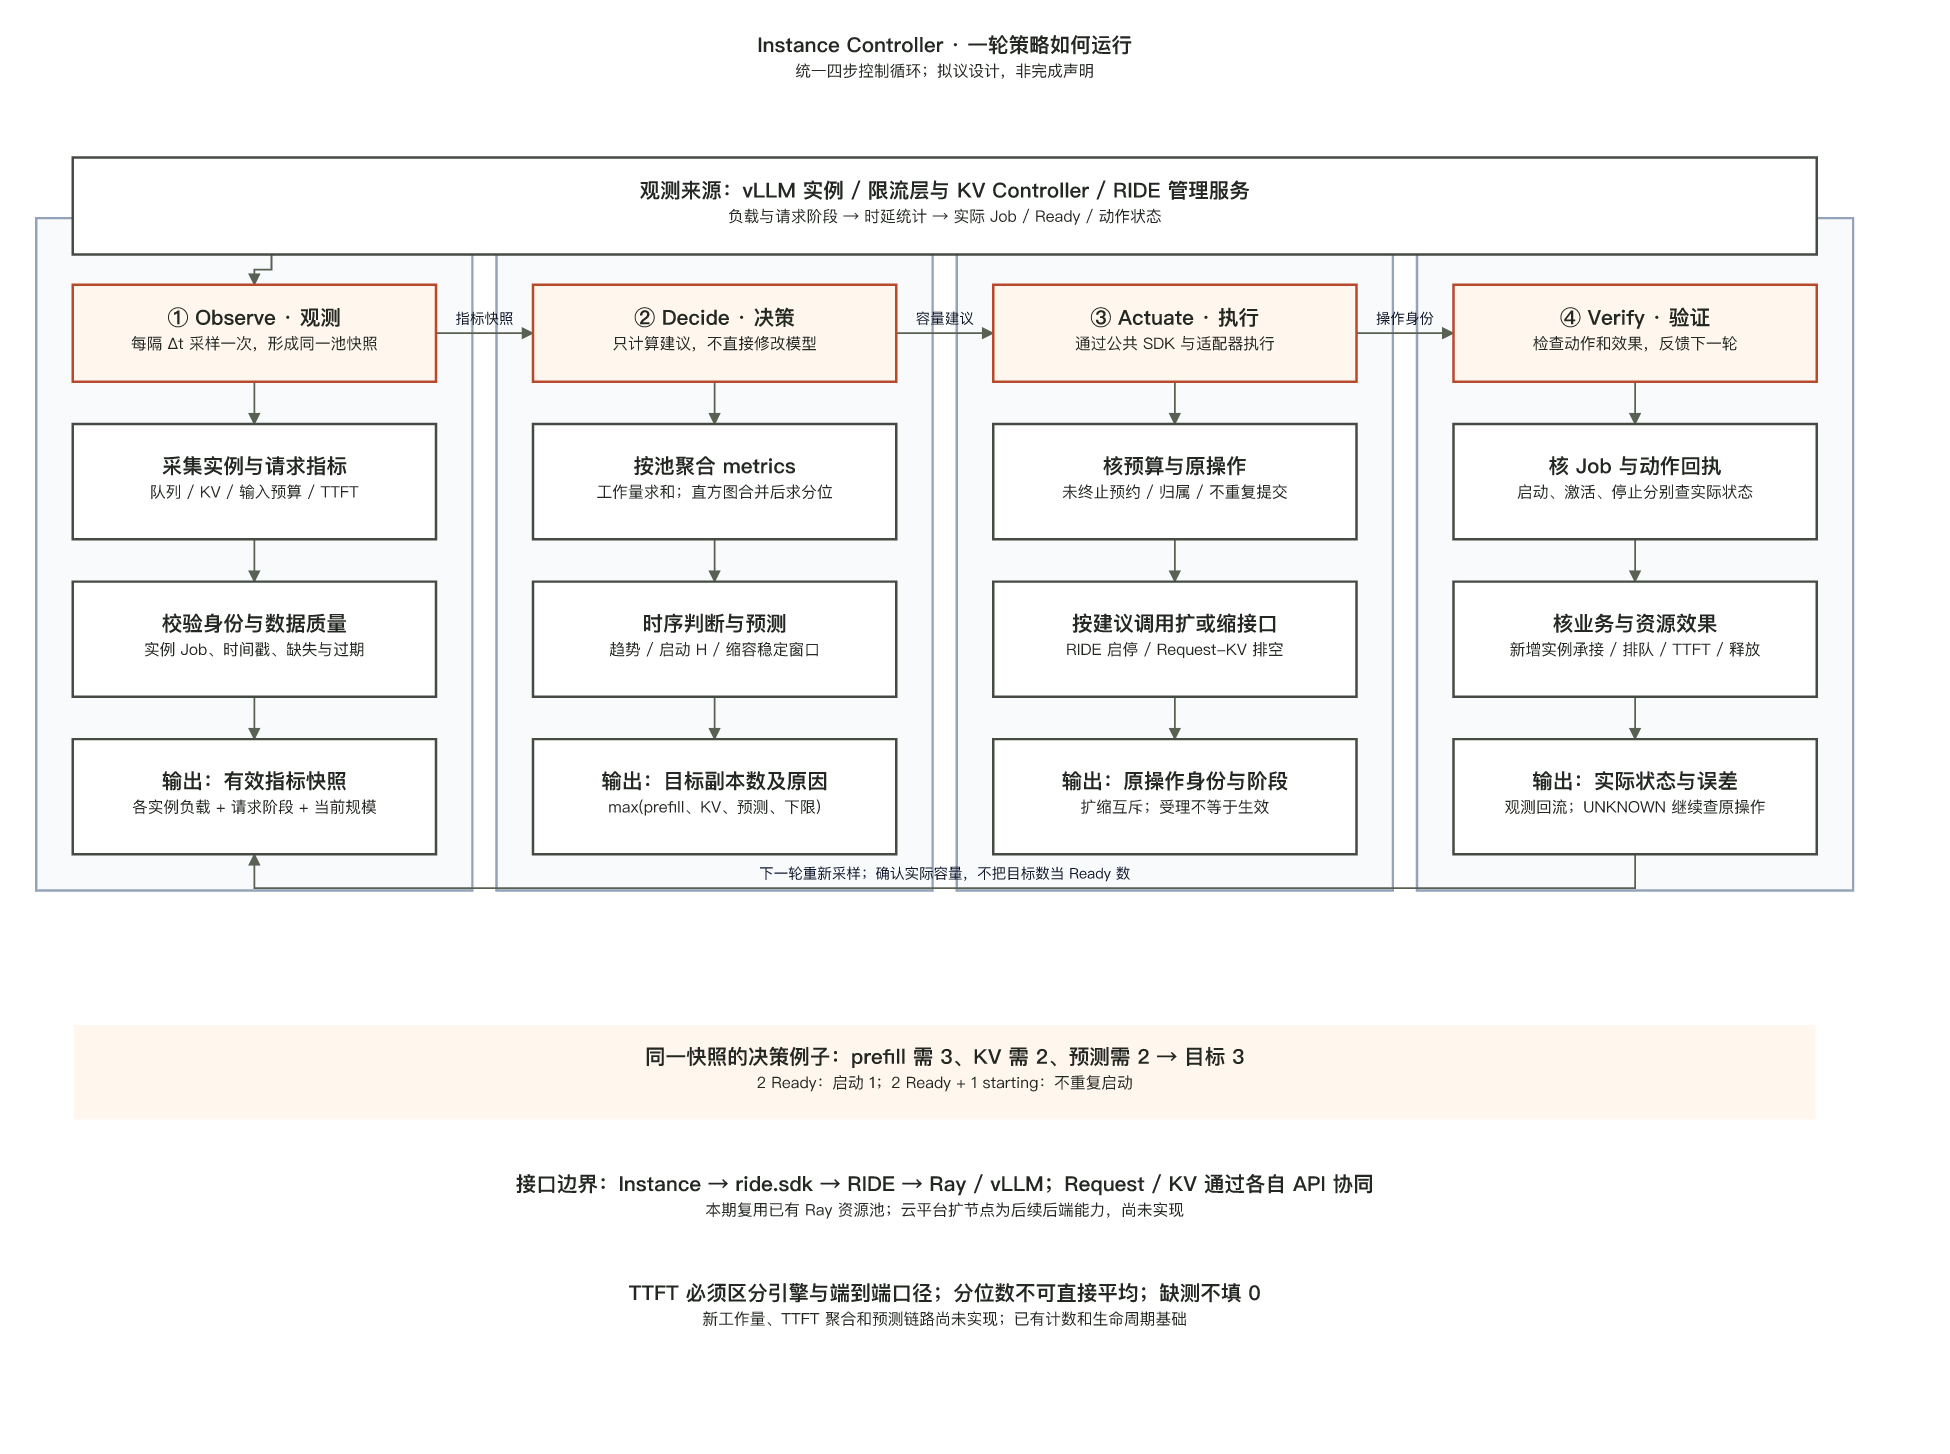
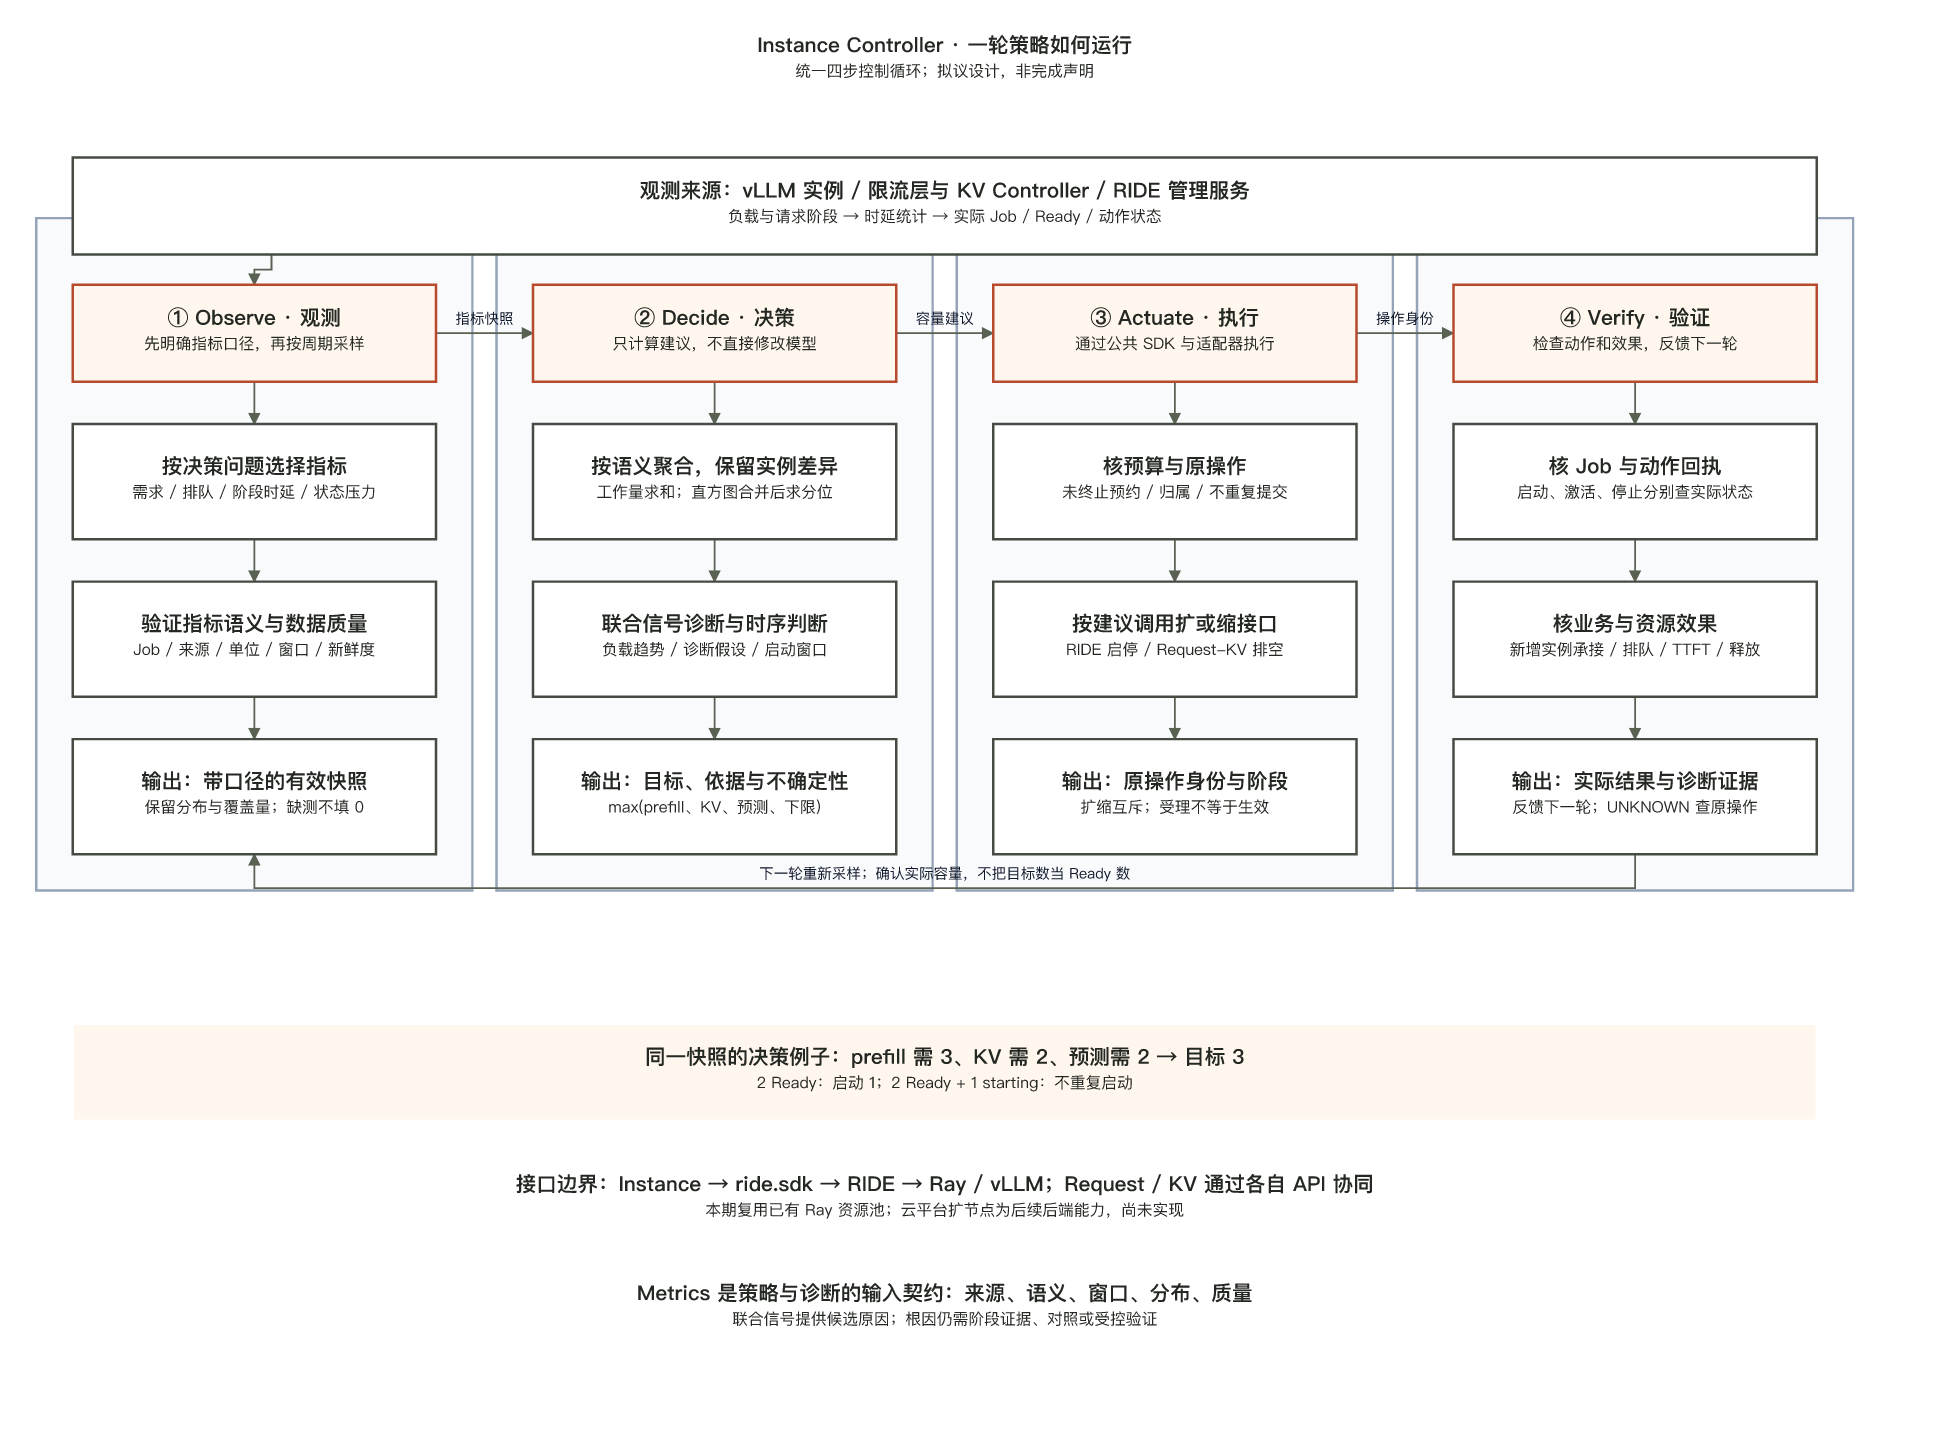
docs: make metrics contracts and evidence-based diagnosis central to autoscaling

diff --git a/docs/rfcs/0001-instance-autoscaling.md b/docs/rfcs/0001-instance-autoscaling.md
@@ -13,6 +13,8 @@
 
 ## 1. 摘要
 
+指标是策略输入的契约：先明确决策和诊断问题，再确定观测来源、语义、时间窗口与聚合规则；指标不可信时不产生其无法支持的动作或结论。
+
 实例扩缩由两层组成：公共实例控制循环负责身份、能力与观测校验、预算、安全启停、排空和恢复；可替换场景策略负责目标、所需观测和容量建议。普通在线推理、同步RL rollout、异步RL rollout及离线批处理具有不同目标，不能统一用请求时延或token吞吐验收。
 
 本RFC规定公共策略契约，并把带工作量反馈和可关闭启动前瞻的在线推理策略作为首个实现。RIDE继续托管独立Controller及管理准确模型Job，Ray执行；场景适配器提供公开观测和约束，策略不直接操作模型或平台。本期不实施RL训练/rollout策略，RL接口和目标仅为后续设计，不代表已有支持。
@@ -81,6 +83,19 @@
 | [Llumnix，OSDI24](https://www.usenix.org/conference/osdi24/presentation/sun-biao) | 状态影响重配置的动机及后续强相关基线 | 本RFC不实现其请求/状态迁移，不能声称已拥有迁移能力 |
 
 llm-d来源固定为343d9be9813020f43aeb5a5b97cb459102bb5893，[许可证为Apache-2.0](https://github.com/llm-d/llm-d/blob/343d9be9813020f43aeb5a5b97cb459102bb5893/LICENSE)。实现时记录实际引用文件SHA、保留归属并列适配差异。其他论文固定所引版本，Dynamo源码身份实施前核定；不复制上游硬件容量常数。统一接口或组合已有机制本身不构成研究新颖性。
+
+### 4.1 Metrics与诊断：已有工作具体教给我们什么
+
+核查日期2026-11-06；以下是源码所属项目/维护者的文档依据，不是本项目已经移植、运行或验证的声明。Dynamo引用固定v1.6.1文档；llm-d保持上表commit。vLLM latest与社区文档是当天阅读版本，落代码前还须固定来源commit、许可证及本机实际版本。
+
+| 已有工作与直接来源 | 学习并纳入本设计的内容 | 适配与证据边界 |
+|---|---|---|
+| [vLLM Production Metrics](https://docs.vllm.ai/en/latest/usage/metrics/) | 复用`/metrics`及队列、阶段时延、KV、抢占和token指标语义；优先沿用原生采集 | 最新文档不是当前Ascend镜像的能力清单。先核HELP/TYPE、源码和实样，字段缺失不改名伪装等价 |
+| [llm-d token-aware autoscaling](https://github.com/llm-d/llm-d/blob/343d9be9813020f43aeb5a5b97cb459102bb5893/guides/workload-autoscaling/keda-epp-token-aware/README.md) | 学习按阶段选择信号：prefill工作量经本机标定换算成时间，KV单独表达状态容量；第7.2节已有对应适配 | 上游强调uncached token；本期完整输入预算是代理，必须披露偏差。该路径为Experimental，不搬上游容量常数 |
+| [Dynamo Planner v1.6.1 Design](https://docs.nvidia.com/dynamo/v1.6.1/knowledge-base/modular-components/planner/planner-design) | 学习流量/引擎观测到预测、容量建议、约束与执行的分离；使用不同时间尺度处理持续需求与即时压力 | 其FPM/性能模型及GPU链路未在本项目Ascend验证，不因借鉴结构就宣称同等SLA预测能力 |
+| [vLLM Doctor TTFT规则](https://docs.vllm.doctor/rules/ttft-bottleneck/)、[维护者仓库](https://github.com/vllm-doctor/vllm-doctor) | 学习联合TTFT、TPOT与队列提供证据、可能瓶颈和后续检查，作为第6.5节诊断表的参考 | 独立社区项目，非vLLM官方；当前核的是公开文档，未验收代码。其confidence是规则匹配等级，不是已校准因果概率；不照搬默认阈值，不自动改变业务配置 |
+
+先复用指标与规则思想，保持采集后端可替换：现有exporter/Prometheus及Controller API经观测适配器进入同一指标契约；不为此先造新监控平台。指标契约复用各策略已有schema/能力声明，具体容量控制律仍在独立Instance Controller内。研究差异必须由后续结果说明，不能把“接入Prometheus”或组合这些已有思路称为新贡献。
 
 ## 5. 所选设计与不变式
 
@@ -187,6 +202,52 @@ TTFT在这里有两种作用：用于标定/核验时延目标，以及验证新
 这三项是对同一个实例池的不同容量建议，取最大值而不是相加，避免把重叠需求重复计算。它们也不是完整排队论模型：共置prefill/decode相互干扰，KV分布和绑定会限制扩容效果。第一版限定在经标定的prefill压力主导区间，decode压力与状态偏斜作为保护/边界；超出区间时不宣称SLO保证。
 
 在线观测如何计数、如何区分有效首token、缺测如何处理，见附录A。场景策略只读取适配器给出的公开观测并返回建议，不直接调用模型或平台。RL将使用不同的观测和目标，不能套用本节在线公式来证明训练收益。
+
+### 6.5 Metrics是决策与诊断的输入契约
+
+**先定义要作出的决策和要区分的原因，再选择指标；先验证指标语义，再允许策略使用。** 一个TTFT曲线只能说明症状，不能单独确定应扩容、调整请求放行、处理状态压力还是排查故障。策略必须能追溯到实际观测及其适用范围，诊断则明确区分事实、候选解释和缺失证据。
+
+#### 最小指标集：从需求、排队、执行和结果形成证据链
+
+| 要回答的问题 | 指标及来源 | 聚合/关联与使用方式 |
+|---|---|---|
+| 进入系统的工作量是多少？ | 限流层已接收输入token累计量、counter epoch、首token前预算B；请求输入/输出长度分布 | 到达量由接收端计数导出速率，不能用饱和后的完成吞吐代替需求；预算用于第7.2节 |
+| 工作等在哪里？ | 限流层本地队列/等待年龄；引擎waiting/running、请求queue time，按版本核能力 | 两层队列分别保留，不重复相加；区分容量等待、状态加载及其他延迟原因，原因不可得就标未知 |
+| 执行阶段哪里变慢？ | 引擎TTFT、prefill/decode时长、ITL/TPOT；限流层或客户端端到端TTFT；各自采样范围 | 同口径直方图聚合后求分位；用按请求关联的阶段事件辅助诊断，不能相减两个p95来分解时延 |
+| 状态是否在阻止进展？ | 每实例KV占用、抢占、原生cache hit/query增量、状态动作未完成量；KV/引擎适配器 | 保留实例分布与后端语义；不将普通prefix命中等同B1原生状态恢复，不由占用高直接推断算力不足 |
+| 新容量何时真正可用？ | RIDE提交/运行/Ready、Request/KV激活、真实承接请求、停止终态及实际预约 | 准确Job和操作身份关联；分解启动H、激活与排空代价，禁止starting冒充Ready或停止受理冒充释放 |
+| 是否改善了业务且没有隐藏损失？ | 完成/失败/取消、完整任务时延、质量/公平性、设备预约；请求/任务及资源记录 | 输入类别和有效样本数同时记录；请求、program、实例、设备各有分母，局部吞吐不能替代完整收益 |
+
+这些是按问题选择的逻辑指标，不要求为每项重新发明指标名。vLLM原生名称及版本映射进入观测适配器，限流层等待和任务语义由限流层提供，Job状态由RIDE提供。指标无法覆盖跨层过程时才补事件/trace，不把不同所有者的内存视为共享数据库。
+
+#### 指标契约：名字相同也不意味着可以比较
+
+每个策略用到的序列须明确：来源及版本、pool/模型/布局/准确Job、单位、Counter/Gauge/Histogram类型、计时起止点、采样周期、查询窗口、counter重置世代、样本覆盖量、新鲜度和允许的聚合。实例退出后旧序列不得继续参与容量计算；数据不全、counter重置或窗口未齐不能填0。时延histogram通常偏向已完成阶段/请求，需同时看进行中数量和等待年龄，避免越慢的请求越没有样本。
+
+只合并相同语义、bucket和统计窗口的直方图；计数加权计算缓存比例，不平均各实例比例或分位数。TP/DP重复导出须识别逻辑实例及实际exporter归属，不能把多个rank的重复序列当作多份工作量。request/program身份进入受控日志或trace，不作为无界Prometheus label；控制采集、tokenization、查询和高基数开销，并在对照中共同计入。
+
+时延分解必须尊重计时边界。限流层自己的排队可用本进程单调时钟测量；引擎区间由引擎测量；跨层关联先核请求身份、同一次尝试与时钟条件。无法证明区间不重叠时只并列展示，不强行相加或声称得到网络耗时。没有同步证明的跨主机墙钟差不是可靠阶段时长。
+
+#### 从症状到候选原因：联合指标缩小范围，再验证
+
+下表为拟议诊断规则，不是已验证根因，也不是新的自动扩缩触发器。它参考vLLM Doctor的联合信号方式，并补入RIDE的限流层、实例生命周期及任务证据。
+
+| 联合观察 | 目前支持的候选解释 | 下一项必要证据 / 决策限制 |
+|---|---|---|
+| 端到端TTFT升高，限流层等待增长，引擎队列和阶段时间较稳 | 等待可能主要发生在限流层 | 核放行、任务绑定和缓存容量条件；不能直接推断应加vLLM副本 |
+| 引擎TTFT和queue time增长，输入预算持续上升，生成阶段相对稳 | prefill或排队压力 | 核输入长度、缓存及可分配工作；第7节可提出扩容建议，但仍须证明新实例能承接 |
+| TPOT/ITL恶化而KV不高 | decode计算/混批等问题仍可能存在 | 核输出长度、批次/迭代和设备证据；KV阈值未触发不代表健康 |
+| KV高且抢占/状态等待增长 | 状态容量、布局或搬运可能限制进展 | 核每实例偏斜、状态动作及具体后端；新空实例不会自动解除旧实例的状态压力 |
+| 目标副本增加，但Ready未增或新副本无流量 | 启动、激活、路由或资源准备问题 | 查原操作/Job及成员与实际请求，不继续盲目增加目标 |
+| 指标消失、样本很少或实例身份变化 | 观测链路或统计覆盖不可信 | 报具体缺口；按策略必需能力规则停止新增不安全动作，不把缺测解释为零负载 |
+
+诊断输出应保留“证据→候选原因→反证/未知→下一项检查”，不把规则命中数叫因果概率。确认根因需要相同请求/任务的阶段证据、版本/配置对照或有控制的干预；仅相关性和扩容后数值回落都不足以排除其他同时变化。
+
+#### 先做什么，如何验收
+
+第一阶段仍只做在线Instance：核实际镜像暴露的metrics及语义，产出版本化映射与最小观测能力，再实现聚合/窗口和只记录建议。与现有计数基线共同采集，核已有行为不变、缺测/重置/乱序/重复rank/不同bucket被正确处理。能准确重现一个“哪里在等待”的小闭环后，才允许新策略执行扩缩和完整效果对照。
+
+策略必需输入不全则拒绝启用该策略；TTFT等诊断或验收指标缺失时，不能作相应SLO/根因结论，但不凭空把所有可选指标变成计数策略的新前置条件。后续更强模型可借鉴Dynamo的逐迭代FPM，当前不承诺该采集与预测链路已具备。本文新增的指标映射、诊断与验证要求均待实现/实测，不由设计表核销。
 
 ## 7. 技术设计：实例数量、启动时机与安全缩容
 
